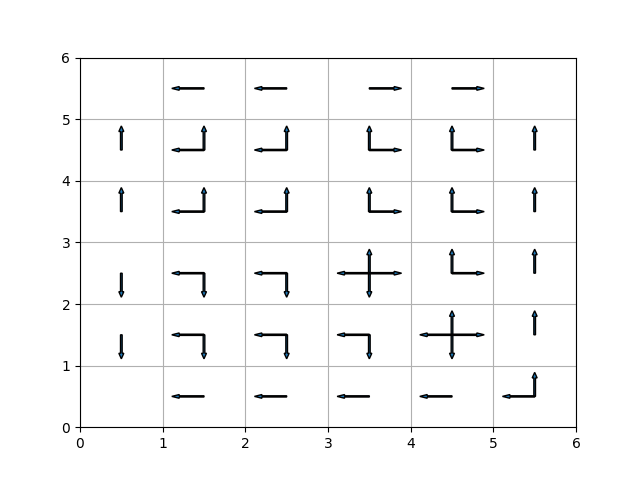
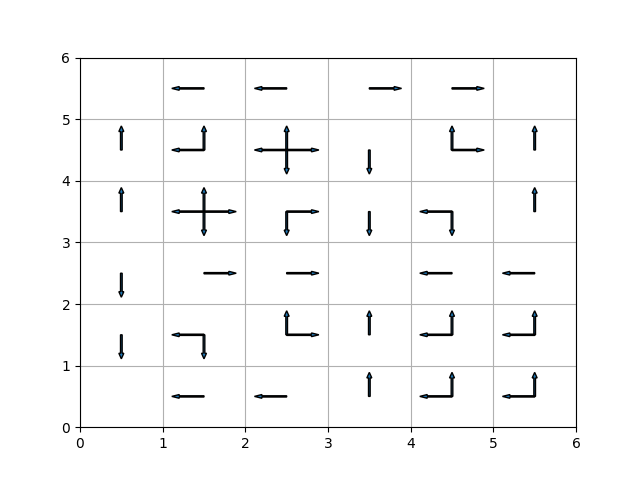
bug fixes

diff --git a/code/Value.py b/code/Value.py
@@ -12,6 +12,7 @@ class Value:
         self.value = np.copy(input_matrix)
     def update(self, input_policy, reward, terminal):
         new_value = np.arange(self.size_col * self.size_row, dtype = 'f').reshape(self.size_col, self.size_row)
+        equal = True
         for i in range(0, self.size_row):
             for j in range(0, self.size_col):
                 sum = 0.0
@@ -32,9 +33,13 @@ class Value:
                 else:
                     sum += input_policy.policy[i][j][RT] * (self.value[i][j] + reward)
                 new_value[i][j] = sum
+                if (round(new_value[i][j], 3) != round(self.value[i][j], 3)):
+                    equal = False
         self.value = np.copy(new_value)
         for i, j in terminal:
             self.value[i][j] = 0.0
+        return equal
+
     def update_vi(self, terminal, reward):
         new_value = np.arange(self.size_col * self.size_row, dtype = 'f').reshape(self.size_col, self.size_row)
         equal = True

diff --git a/code/DP.py b/code/DP.py
@@ -15,12 +15,12 @@ class DP:
         converge = False
         count = 0
         while converge == False:
-            self.val.update(self.pol, self.reward, self.terminal)
-            converge = self.pol.greedy(self.val, self.terminal)
+            converge = self.val.update(self.pol, self.reward, self.terminal)
+            self.pol.greedy(self.val, self.terminal)
             count = count + 1
             print(count)
         return count
-    def valueIteration(self, times):
+    def valueIteration(self):
         converge = False
         count = 0
         while converge == False:

diff --git a/code/Policy.py b/code/Policy.py
@@ -46,12 +46,8 @@ class policy:
                     else:
                         new_pol[i][j][k] = 0.0
                 for k in range(0, 4):
-                    self.policy[i][j][k] /= count
+                    new_pol[i][j][k] /= count
         for i, j in terimal:
             for k in range(0, 4):
                 new_pol[i][j][k] = 0;
-        if (np.array_equal(new_pol, self.policy)):
-            return True
-        else:
-            self.policy = np.copy(new_pol)
-            return False
+        self.policy = np.copy(new_pol)

diff --git a/code/main.py b/code/main.py
@@ -14,8 +14,9 @@ if __name__ == "__main__":
     dp =DP.DP(size_row, size_col, map, terminal, -1)
     if (sys.argv[2] == "pi"):
         count = dp.policyIteration()
+        print("Stop after " + str(count) + " iteration of policy iteration")
 
     else:
-        count = dp.valueIteration(30)
+        count = dp.valueIteration()
         print("Stop after " + str(count) + " iteration of value iteration")
     dp.plot(sys.argv[1], sys.argv[2])
